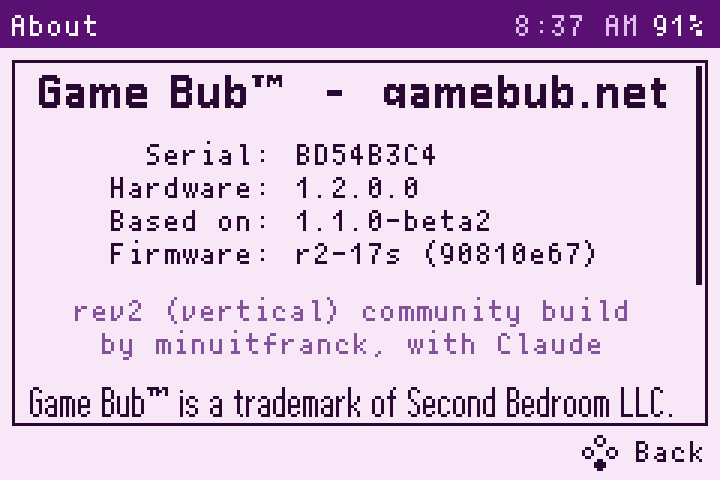
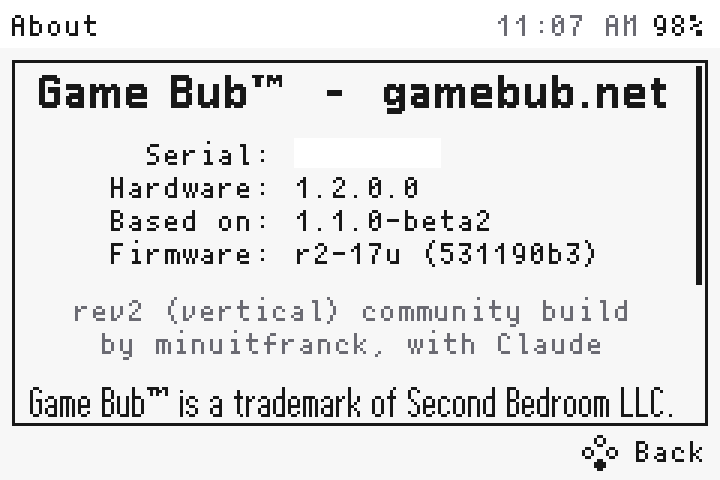
Menus and themes in the minuitfranck light theme (firmware r2-17u)
Every menu picture retaken on the handheld in the theme in use; two
editing states added (the Theme row, the day of the date), a core's page,
and the main menu in each of the four themes. The home illustration shows
the new main menu.

Claude-Session: https://claude.ai/code/session_01EnbP2DAFDJeEL8RVWwZ57o

diff --git a/README.md b/README.md
@@ -5,7 +5,7 @@ the SD card, as of 28 September 2026. The pictures are the handheld's own screen
 Not affiliated with, endorsed by or supported by Eli Lipsitz or the Game Bub project.
 
 <p align="center">
-  <img src="images/gamebub-rev2-home.svg" width="36%" alt="A rev2 Game Bub showing its home screen">
+  <img src="images/gamebub-rev2-home.svg" width="36%" alt="A rev2 Game Bub showing its main menu">
   <img src="images/gamebub-rev2-comix-zone.svg" width="36%" alt="A rev2 Game Bub playing Comix Zone">
 </p>
 
@@ -38,20 +38,33 @@ green while a value is being edited, amber on the number under change, and the s
 
 ## Menus
 
+The menus in the theme in use, minuitfranck light.
+
 |  |  |  |
 |---|---|---|
-| <img src="images/menu-main.png" width="100%" alt="Main menu"> | <img src="images/menu-cores.png" width="100%" alt="Cores"> | <img src="images/menu-game-list.png" width="100%" alt="A core's page"> |
+| <img src="images/menu-main.png" width="100%" alt="Main menu"> | <img src="images/menu-cores.png" width="100%" alt="Cores"> | <img src="images/menu-core-detail.png" width="100%" alt="A core's page"> |
 | Main menu | Cores | A core's page |
-| <img src="images/menu-home.png" width="100%" alt="Home menu over a game"> | <img src="images/menu-core-panel-gba-mister.png" width="100%" alt="A core's settings over a game (Game Boy Advance, MiSTer core)"> | <img src="images/menu-tools.png" width="100%" alt="Tools"> |
-| Home menu over a game | A core's settings over a game (Game Boy Advance, MiSTer core) | Tools |
-| <img src="images/menu-settings.png" width="100%" alt="Settings"> | <img src="images/menu-settings-general.png" width="100%" alt="Settings > General"> | <img src="images/menu-settings-hotkeys.png" width="100%" alt="Settings > Hotkeys"> |
-| Settings | Settings > General | Settings > Hotkeys |
-| <img src="images/menu-settings-date-time.png" width="100%" alt="Settings > Date & Time"> | <img src="images/menu-settings-cores-builtin.png" width="100%" alt="Settings > Cores: Built-in"> | <img src="images/menu-settings-cores-sd.png" width="100%" alt="Settings > Cores: SD Card"> |
-| Settings > Date & Time | Settings > Cores: Built-in | Settings > Cores: SD Card |
+| <img src="images/menu-game-list.png" width="100%" alt="A core's game list"> | <img src="images/menu-home.png" width="100%" alt="Home menu over a game"> | <img src="images/menu-core-panel-gba-mister.png" width="100%" alt="A core's settings over a game (Game Boy Advance, MiSTer core)"> |
+| A core's game list | Home menu over a game | A core's settings over a game (Game Boy Advance, MiSTer core) |
+| <img src="images/menu-tools.png" width="100%" alt="Tools"> | <img src="images/menu-settings.png" width="100%" alt="Settings"> | <img src="images/menu-settings-general.png" width="100%" alt="Settings > General"> |
+| Tools | Settings | Settings > General |
+| <img src="images/menu-settings-general-theme-editing.png" width="100%" alt="Settings > General, choosing the theme"> | <img src="images/menu-settings-hotkeys.png" width="100%" alt="Settings > Hotkeys"> | <img src="images/menu-settings-date-time.png" width="100%" alt="Settings > Date & Time"> |
+| Settings > General, choosing the theme | Settings > Hotkeys | Settings > Date & Time |
+| <img src="images/menu-settings-date-time-editing.png" width="100%" alt="Settings > Date & Time, changing the day"> | <img src="images/menu-settings-cores-builtin.png" width="100%" alt="Settings > Cores: Built-in"> | <img src="images/menu-settings-cores-sd.png" width="100%" alt="Settings > Cores: SD Card"> |
+| Settings > Date & Time, changing the day | Settings > Cores: Built-in | Settings > Cores: SD Card |
 | <img src="images/menu-settings-core-gb-builtin.png" width="100%" alt="Core: GB / GBC (Game Bub)"> | <img src="images/menu-settings-core-gba-builtin.png" width="100%" alt="Core: GBA (Game Bub)"> | <img src="images/menu-settings-core-gb-mister.png" width="100%" alt="Core: GB / GBC (MiSTer)"> |
 | Core: GB / GBC (Game Bub) | Core: GBA (Game Bub) | Core: GB / GBC (MiSTer) |
 | <img src="images/menu-settings-core-mega-drive.png" width="100%" alt="Core: Mega Drive / Genesis"> | <img src="images/menu-about.png" width="100%" alt="About"> |  |
 | Core: Mega Drive / Genesis | About |  |
+
+## Themes
+
+Settings > General > Theme. The main menu in each of the four.
+
+|  |  |  |  |
+|---|---|---|---|
+| <img src="images/menu-theme-light-game-bub.png" width="100%" alt="Light Game Bub"> | <img src="images/menu-theme-dark-game-bub.png" width="100%" alt="Dark Game Bub"> | <img src="images/menu-theme-minuitfranck-dark.png" width="100%" alt="minuitfranck dark"> | <img src="images/menu-theme-minuitfranck-light.png" width="100%" alt="minuitfranck light"> |
+| Light Game Bub | Dark Game Bub | minuitfranck dark | minuitfranck light |
 
 ## Game Boy / Game Boy Color (built in)
 
